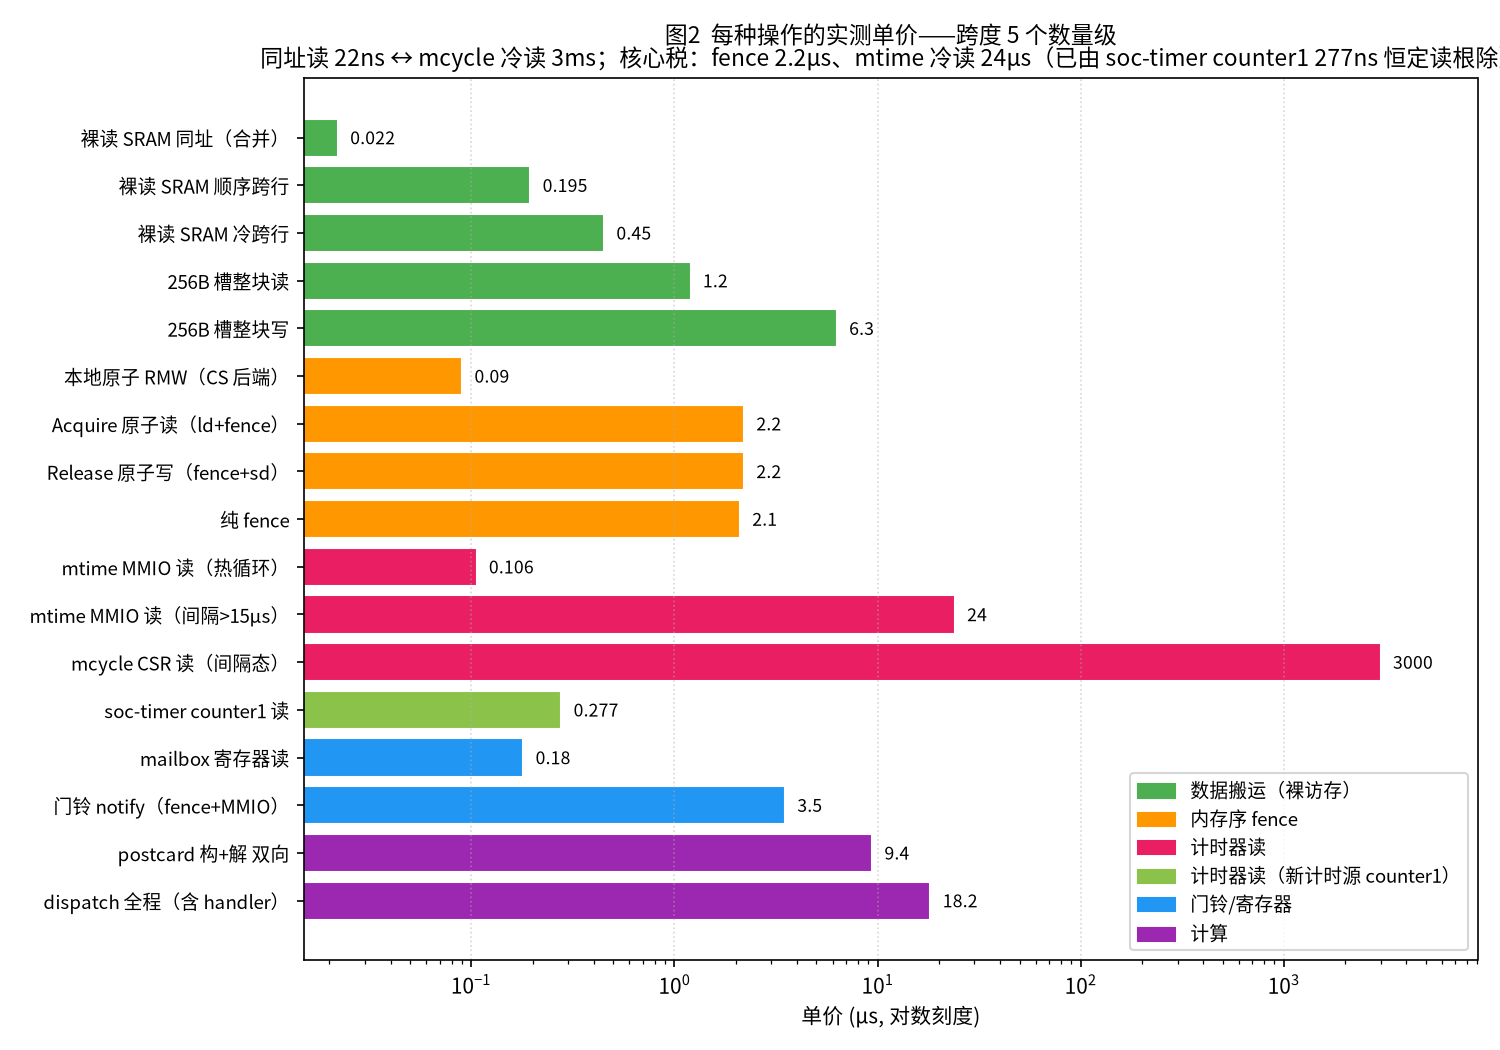
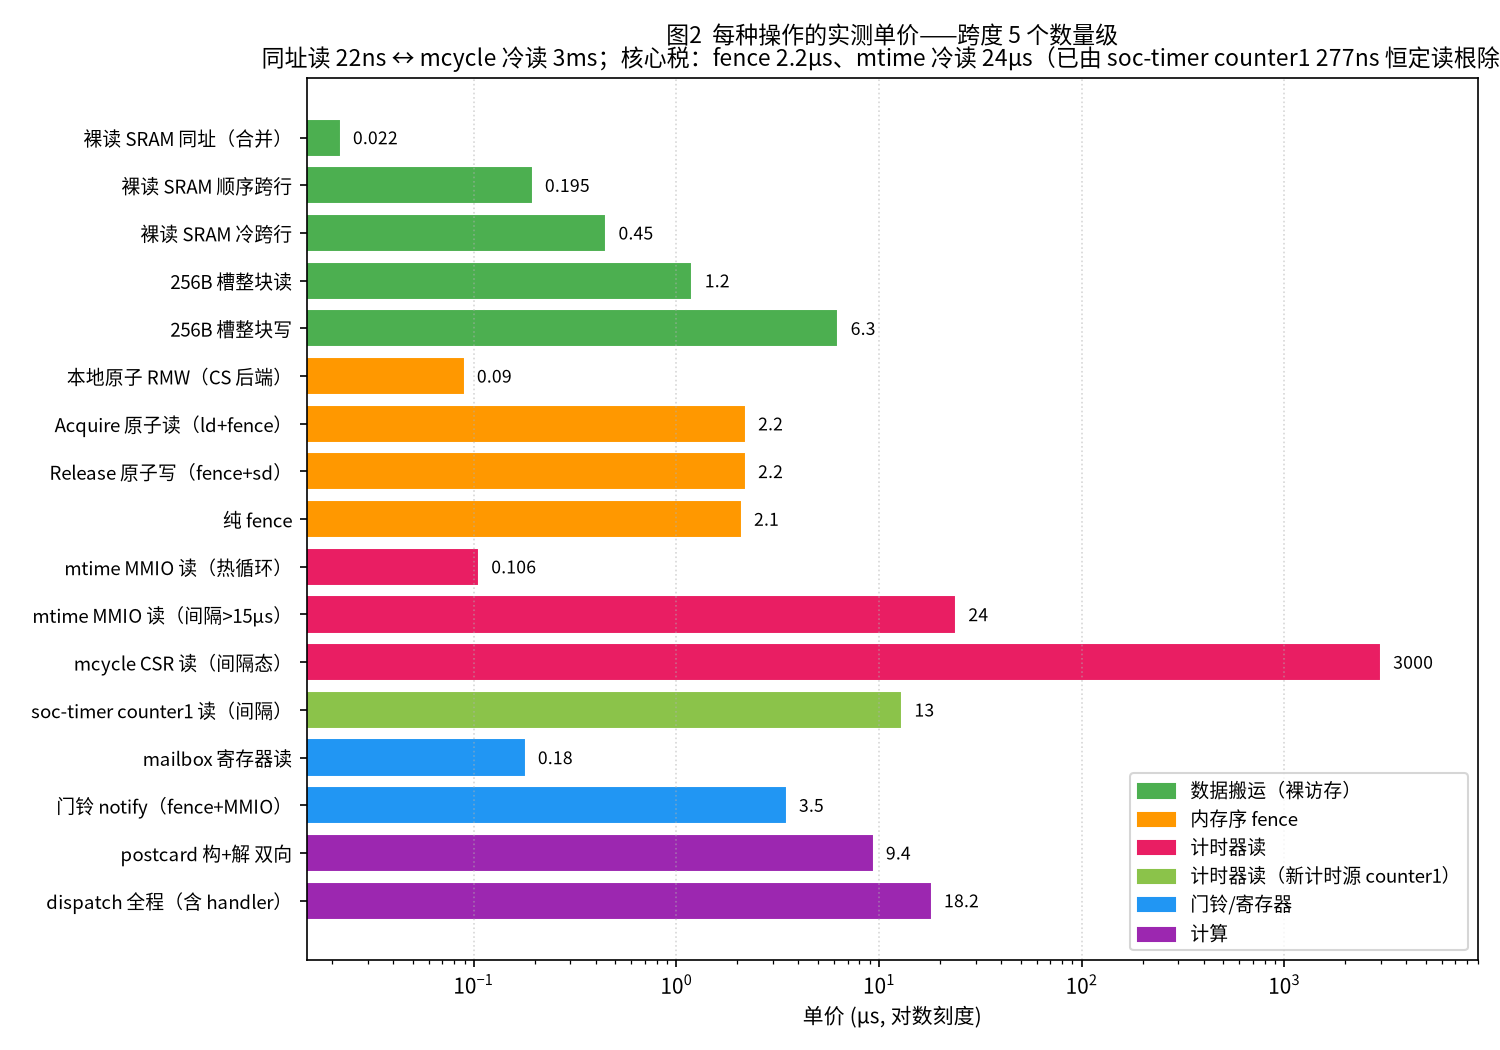
docs(latency-report): 换源证伪完整记录——counter1 间隔读 ~13µs 税（tmr_gapped 盲区教训），rtt 240→248.5 回滚；计时瘦身转采样制（三计时器间隔读全有跨域税，唯一出路=少读）；图2 更新

diff --git a/docs/latency-report/make_figs.py b/docs/latency-report/make_figs.py
@@ -78,7 +78,7 @@ def fig2_unit_price():
         ("mtime MMIO 读（热循环）",    0.106, C_TIMER),
         ("mtime MMIO 读（间隔>15µs）", 24.0, C_TIMER),
         ("mcycle CSR 读（间隔态）",    3000.0, C_TIMER),
-        ("soc-timer counter1 读",      0.277, "#8BC34A"),  # 新计时源：恒定、无冷读税
+        ("soc-timer counter1 读（间隔）", 13.0, "#8BC34A"),  # 换源证伪：间隔读 ~13µs 重锁税（背靠背 277ns）
         ("mailbox 寄存器读",           0.18, C_BELL),
         ("门铃 notify（fence+MMIO）",  3.5,  C_BELL),
         ("postcard 构+解 双向",        9.4,  C_COMP),

diff --git a/docs/latency-report/REPORT.md b/docs/latency-report/REPORT.md
@@ -106,7 +106,7 @@ D1 路径六段（dd 场景闭环恒等式 `rtt = send + ddrain + ddisp + dseen 
 | **mtime MMIO 读（非背靠背）** | **~24.5µs** | 跨时钟域同步器重锁，231 倍；**任意非背靠背间隔触发**（poll 间隔几十 ns 亦冷——now_gapped 每轮 69µs，见 §6 附记） |
 | mcycle CSR 读（热） | **17ns** | 4 cycle/笔（cycle_hot 4158c/千笔），CSR 本地读无 MMIO |
 | mcycle CSR 读（间隔 ~400µs） | **~2.9ms** | 冷读税比 mtime 重 118 倍；但计数为**核频 245.84MHz**（cycle_cal 联标 1,229,222c/5ms，非 mtime 同源）——"仅冷读慢"型：stamp 链段间保温可用（保温笔仅 17ns），生产每消息级间隔计时冷读不可用 |
-| **soc-timer counter1（0xd4016094）** | **热读 277ns，无冷读税** | AP 域 APB 块，**12.8MHz** 自由运行（mux=0 默认）；时钟门经 `APBC_TIMERS1_CLK_RST@0xd4015044` 开启后读恒快（gapped 结构每轮 22.3µs，甚至把同结构的 mtime 都带热）——**换源可行，分辨率 78ns、回卷 335s** |
+| **soc-timer counter1（0xd4016094）** | 背靠背 277ns；**间隔读 ~13µs** | AP 域 APB 块，12.8MHz 自由运行（mux=0）。换源方案**板上证伪**（08-22）：277ns 是流水价，真实路径 mark 间隔 µs 级仍触发 ~13µs 重锁税（跨域同病、仅轻于 mtime 的 24.5µs），整链 8 笔净亏（rtt 240→248.5 实证）；驱动保留供探针 |
 
 **推论**：每条消息的计时/统计链（step 计时、SVC 统计、弹性窗计时、测量构建的 stamp 链）里有若干笔"间隔上百 ms 的冷读"——**每笔真等 24µs**。测量构建（probe 开）每消息 6-8 笔（40-70µs 税）；**生产构建（probe 关）只剩 step/SVC 计时 2-4 笔（24-48µs 税）**。
 
@@ -175,7 +175,7 @@ D1 路径六段（dd 场景闭环恒等式 `rtt = send + ddrain + ddisp + dseen 
 | 优先级 | 项 | 内容 | 预期收益 | 工作量/风险 |
 |-------|----|------|---------|------------|
 | ✅ 已完成 | P1 | 单核原子 CS 后端（atomic-cas:false target）+ timer 直连 + 本地别名窗 + mailbox 去 Acquire | 294→240（D1）/ 209→189（D2） | 已合入 |
-| **进行中** | **计时瘦身** | **换源已实施（c84cc64，待板上验证）**：`chip-k3-rt24::timer_k3` 驱动（APBC 开门 + 复位脉冲 + counter1 自由运行 @12.8MHz），ISR 戳/T_SCHED/stamp 链/step SVC/弹性窗/membench 括号/delay 全迁同钟；mtimecmp 睡眠唤醒保留 SysTimer；QEMU 零变化。预期板上 dd/s1/s2 复测 | **−35µs（D1）/ −34µs（D2）** | 已合入 |
+| **进行中** | **计时瘦身** | **换源已证伪回滚（6f4ec9d，08-22 板上）**：counter1 间隔读 ~13µs 重锁税（仅轻于 mtime），rtt 240→248.5 净亏。**方案转采样制/减 mark 笔数**（生产链 step/SVC 计时降频或删除；测量链 stamps 采样）——所有计时器（mtime 24.5µs / counter1 13µs / mcycle 2.9ms）间隔读均有跨域税，唯一出路是少读 | **−20~35µs（D1）**（按保留笔数） | 小 / 低 |
 | 第 2 刀 | **P3 fence 去冗余** | magic 缓存 + 自产索引 Relaxed + 自旋 6→2 笔（D2 发现粒度 ×3）+ ch2 查询瘦身 | −10µs/消息 + 自旋 18→6µs/轮 | 中 / 低——正确性论证已完成（SPSC 单写者 + RP 无缓存） |
 | 第 3 刀 | **W2 双向轮询** | AP 响应方向用户态自旋（已实测 −11µs）；绕过 MSIP 54µs 物理地板 | −11µs 起；延迟关键模式更多 | 小（bench 已预演）/ 烧 AP 核 |
 | ❌ 已否决 | ~~P2 ISR 直派~~ | ~~响应在 ISR 内写完~~ **否决（2026-08-21）**：不破坏 rt-async 的任务模型——实际处理必须留在 task 上下文（executor/waker 语义），ISR 只做唤醒/标记；ddisp 27.1µs 作为结构性成本保留 | —（预期 −22µs 放弃） | — |
@@ -183,7 +183,7 @@ D1 路径六段（dd 场景闭环恒等式 `rtt = send + ddrain + ddisp + dseen 
 
 叠加预期（不含已否决项）：**D1 240→~184，D2 189→~134**。再往下就是 SPSC 协议本体（每消息 4 笔 fence ≈ 8.8µs）+ 数据搬运（~7.5µs）+ 任务模型结构性成本（ddisp ~27µs）的物理下限区。
 
-**计时源替换定案（2026-08-21 夜板上）：soc-timer counter1 换源可行**。裁决数据：`tmr_clkon` 从 RP 写 `APBC_TIMERS1_CLK_RST@0xd4015044` **写粘住**（时钟门常闭假设坐实、跨域写过滤证伪），counter1 自由运行 @**12.798MHz**（mux=0 默认，5ms 走 64013 ticks），CER 置位 retries=0；三面：热读 **277ns**、gapped 结构每轮 22.3µs **无冷读税**（还顺带把同结构 mtime 读带热——跨设备访问保持互连活跃，机理待好奇）。**落地 = chip-k3-rt24 增 soc-timer 驱动**（DTS 节点 + APBC 开门 + counter0/1 自由运行），step/SVC/stamp 计时链迁 counter1（分辨率 78ns、回卷 335s）。rcpu 侧 rtimer0@c0889000 反而死（RCPU5 门 0xc088c04c 写粘但块 CER 写不进/零计数，疑属 rcpu0 本地域）——弃。兜底不再需要。
+**计时源替换：换源证伪与回滚**（08-21 判可行 → 08-22 板上证伪，完整记录）：`tmr_clkon` 开门成功、counter1 @12.798MHz 自由运行、`tmr_cal`/`tmr_setup` 全绿——但迁移后复测 **rtt 240.0→248.5µs 反向**。归因：`tmr_hot` 277ns 是**背靠背流水价**，真实路径 stamp 间隔 µs 级时每笔 **~13µs 重锁税**（dslot 40.4/dpre 25.8/svc 146 反推一致；12.8MHz 计数钟到 RCPU 总线同样跨时钟域，病轻于 mtime 但整链 8 笔净亏）；`tmr_gapped` 的负 Δ 被"异设备读令 mtime 变热"效应掩盖——探针结构盲区教训。**已回滚（6f4ec9d）**，timer_k3 驱动保留供探针。结论固化：**三个可用计时器（mtime/counter1/mcycle）间隔读全部有跨域税（24.5/13/2900µs），"换源"路线死，计时瘦身唯一出路 = 少读（采样制/减 mark）**。另：本轮 dd 的 send 14.3 vs 之前 8.5µs（AP 侧路径未改，未解，待下轮确认是否环境漂移）。
 
 **附记（mtime 税模型再修正）**：now_gapped 69µs/轮（t0 + 首笔 poll 都吃 24.5µs 冷价）证明 **mtime 冷读由"任意非背靠背间隔"触发**（poll 间隔几十 ns 亦冷）；而 tmr_gapped 在 t1 前插入一笔异设备读（counter1 277ns）后每轮仅 22.4µs——mtime 读全部变热。机制未解（流水线/前端行为），不影响"去 mtime"决策；好奇心探针留给后续。
 
